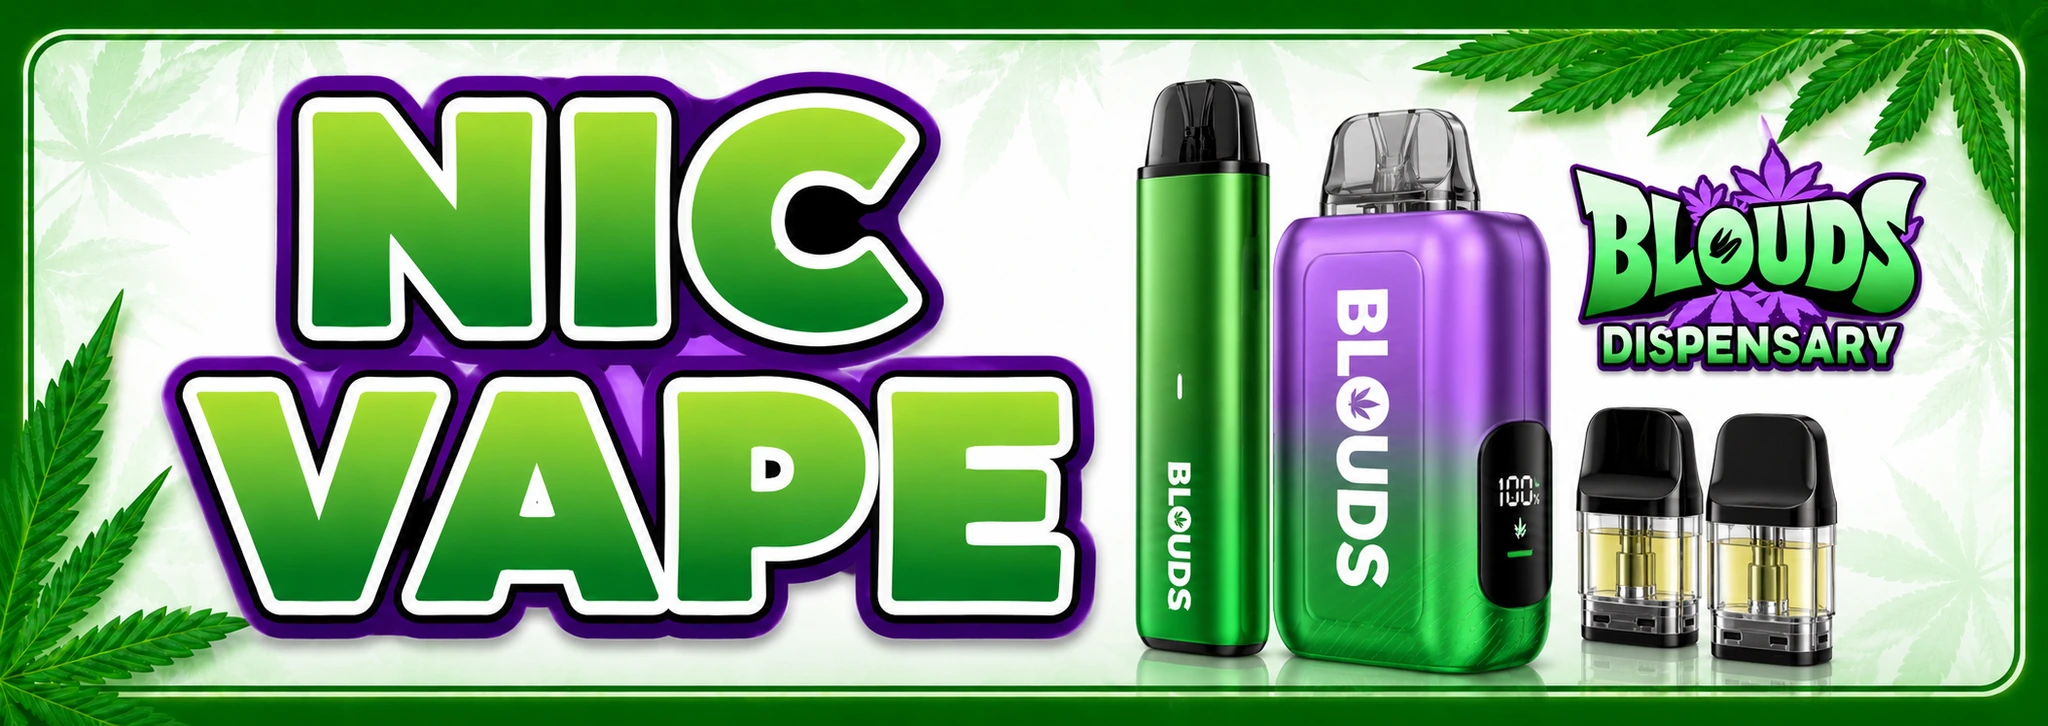
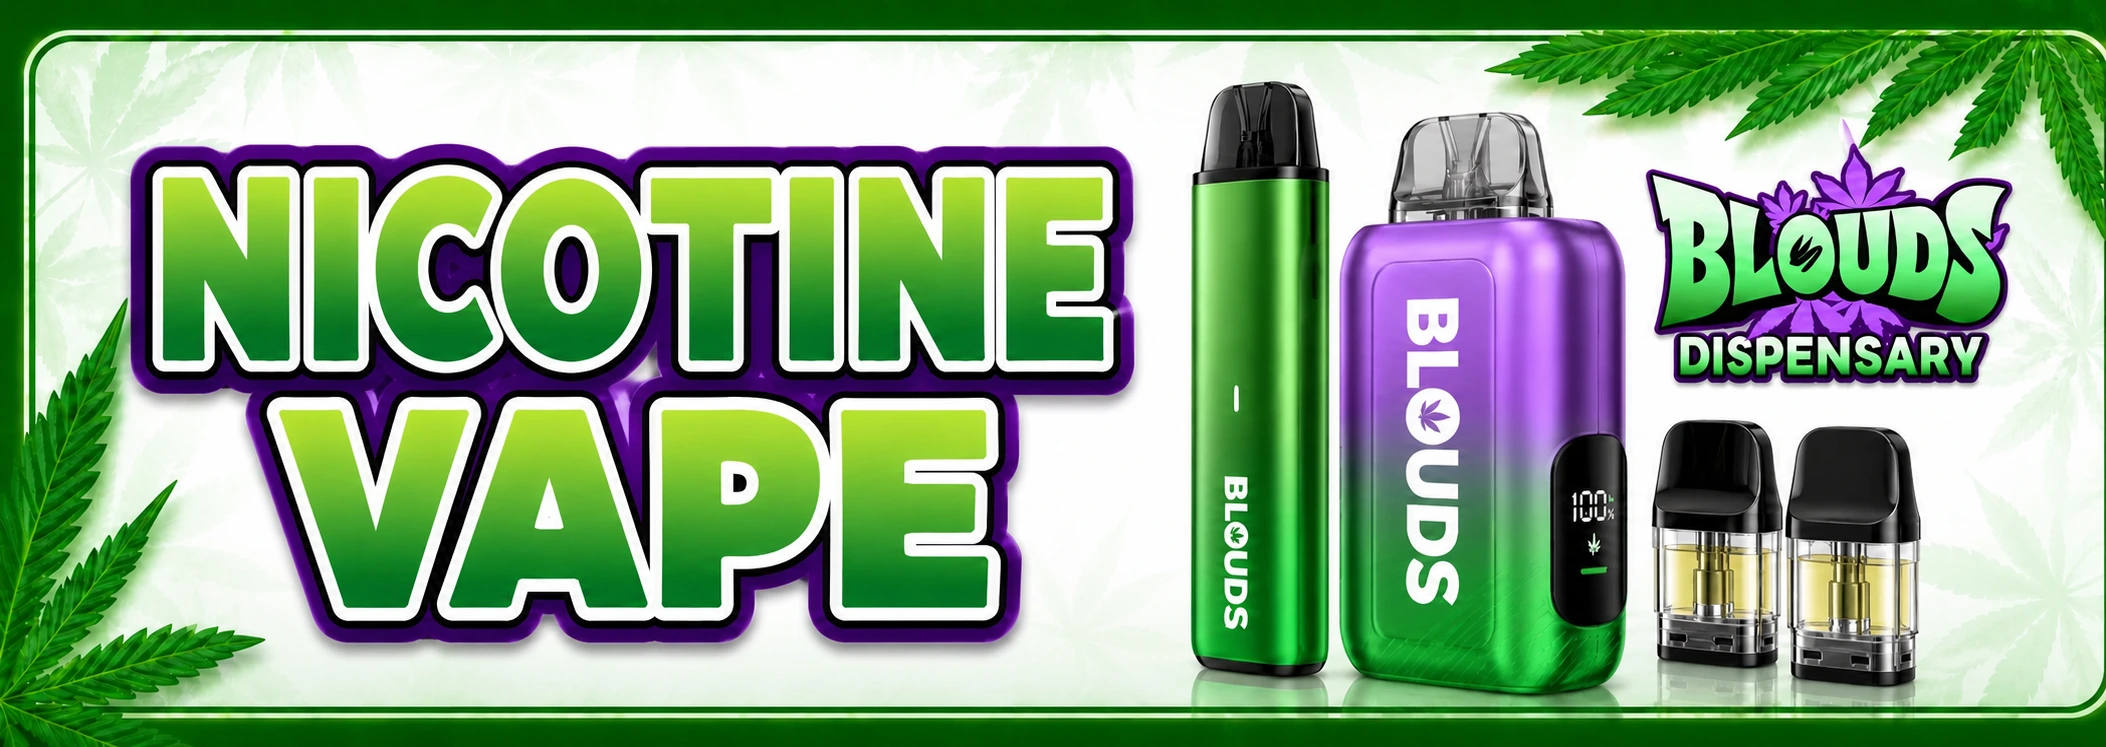
BLS01: expand tier Weed and Nicotine Vape SEO (#30)
Verified POD2 BLS01 campaign. Weed Delivery remains held; protected sensitive behavior preserved.

diff --git a/app/[tier]/page.tsx b/app/[tier]/page.tsx
@@ -1,5 +1,6 @@
 import { notFound } from "next/navigation";
 import type { Metadata } from "next";
+import Link from "next/link";
 import Navbar from "../components/Navbar";
 import Footer from "../components/Footer";
 import FlowerCard from "../components/FlowerCard";
@@ -29,15 +30,20 @@ export async function generateMetadata({
   const seo = TIER_SEO[tierInfo.key];
 
   return {
-    title: seo?.seoTitle || `${tierInfo.config.name} Cannabis Flower - ${flowers.length} Strains`,
+    title: seo ? { absolute: seo.seoTitle } : `${tierInfo.config.name} Cannabis Flower - ${flowers.length} Strains`,
     description: seo?.seoIntro || `Shop ${flowers.length} ${tierInfo.config.name.toLowerCase()} cannabis strains at Blouds Dispensary.`,
     alternates: {
       canonical: `https://www.bloudsdispensary.ca/${tierSlug}`,
     },
     openGraph: {
-      title: `${tierInfo.config.name} Flower | Blouds Dispensary`,
-      description: `Browse listed ${tierInfo.config.name.toLowerCase()} flower names, weights, and prices. Menu pricing starts from $${tierInfo.config.unitPrice}/g.`,
+      title: seo?.seoTitle || `${tierInfo.config.name} Flower | Blouds Dispensary`,
+      description: seo?.seoIntro || `Browse the ${tierInfo.config.name.toLowerCase()} flower section at Blouds Dispensary.`,
       url: `https://www.bloudsdispensary.ca/${tierSlug}`,
+    },
+    twitter: {
+      card: "summary_large_image",
+      title: seo?.seoTitle || `${tierInfo.config.name} Flower | Blouds Dispensary`,
+      description: seo?.seoIntro || `Browse the ${tierInfo.config.name.toLowerCase()} flower section at Blouds Dispensary.`,
     },
   };
 }
@@ -68,7 +74,7 @@ export default async function TierPage({
       <section className={styles.bannerSection}>
         <img
           src={config.banner}
-          alt={`${config.name} Cannabis Flower - ${config.tagline}`}
+          alt={seo?.imageAlt || `${config.name} Cannabis Flower - ${config.tagline}`}
           className={styles.bannerImg}
         />
       </section>
@@ -83,7 +89,7 @@ export default async function TierPage({
             <div className={styles.heroTitleRow}>
               <span className={styles.heroIcon}>{config.icon}</span>
               <h1 className={styles.heroTitle}>
-                <span style={{ color: config.color }}>{config.name}</span>
+                <span style={{ color: config.color }}>{seo?.h1 || config.name}</span>
               </h1>
             </div>
             <p className={styles.heroTagline}>{config.tagline}</p>
@@ -154,10 +160,8 @@ export default async function TierPage({
             </>
           )}
 
-          <h2 className={styles.sectionTitle}>
-            All{" "}
-            <span style={{ color: config.color }}>{config.name}</span>{" "}
-            Strains
+          <h2 className={styles.sectionTitle} style={{ color: config.color }}>
+            {seo?.catalogHeading || `All ${config.name} Strains`}
           </h2>
           <div className={styles.grid}>
             {regularFlowers.map((f) => (
@@ -175,15 +179,24 @@ export default async function TierPage({
       {seo && (
         <section className={styles.seoSection}>
           <div className={styles.container}>
-            <h2 className={styles.seoMainTitle}>{seo.seoTitle}</h2>
+            <h2 className={styles.seoMainTitle}>About the {config.name} Flower Tier</h2>
             <p className={styles.seoIntro}>{seo.seoIntro}</p>
 
-            {seo.sections.map((s, i) => (
-              <div key={i} className={styles.seoBlock}>
-                <h3 className={styles.seoHeading}>{s.heading}</h3>
-                <p className={styles.seoBody}>{s.body}</p>
-              </div>
-            ))}
+            <div className={styles.compareBlock}>
+              <h3 className={styles.seoHeading}>Compare Blouds Weed &amp; Flower Tiers</h3>
+              <nav className={styles.tierLinks} aria-label="Compare Blouds flower tiers">
+                <Link href="/exotic">Exotic Weed</Link>
+                <Link href="/premium">Premium Weed</Link>
+                <Link href="/aaa">AAA+ Weed</Link>
+                <Link href="/aa">AA Weed</Link>
+                <Link href="/budget">Budget Weed</Link>
+              </nav>
+              <p className={styles.seoBody}>
+                Looking for the broader store overview instead of one flower tier? Explore Blouds Dispensary —{" "}
+                <Link href="/weed-dispensary-brampton/">Weed Dispensary in Brampton</Link>{" "}
+                for store information and additional cannabis categories.
+              </p>
+            </div>
 
             {/* FAQ Accordion */}
             {seo.faqs.length > 0 && (

diff --git a/app/lib/tierSeoContent.ts b/app/lib/tierSeoContent.ts
@@ -1,31 +1,66 @@
 export interface TierSeoData {
   seoTitle: string;
+  h1: string;
+  catalogHeading: string;
+  imageAlt: string;
   seoIntro: string;
-  sections: { heading: string; body: string }[];
   faqs: { q: string; a: string }[];
 }
 
-function tierData(name: string, slug: string): TierSeoData {
+function tierData(
+  name: string,
+  seoIntro: string,
+  faq: { q: string; a: string },
+): TierSeoData {
   return {
-    seoTitle: `${name} Cannabis Flower Brampton | Blouds Dispensary`,
-    seoIntro: `Browse the ${name} flower section at Blouds Dispensary in Brampton. Compare current listings, posted weights, prices, and package details.`,
-    sections: [
-      { heading: `${name} Flower Menu`, body: `The ${name} section gives shoppers a focused place to compare the flower names, types, listed weights, and posted prices currently shown online.` },
-      { heading: "Check Current Item Details", body: "Open an item page to review its listed menu details before visiting. A tier label helps organize the menu and is not a product guarantee." },
-      { heading: "Visit Blouds Dispensary", body: "Blouds Dispensary is open 24 hours at 117 Queen St W in Brampton. Use the store page for current visit information." },
-    ],
-    faqs: [
-      { q: `Where can I browse ${name} flower?`, a: `Use the /${slug} menu section to compare the ${name} flower listings currently shown online.` },
-      { q: "What details are shown?", a: "Menu pages show listed names, types, weights, prices, and package details." },
-      { q: "Where is Blouds Dispensary?", a: "Blouds Dispensary is at 117 Queen St W in Brampton and is open 24 hours." },
-    ],
+    seoTitle: `${name} Weed & Cannabis Flower in Brampton | Blouds Dispensary`,
+    h1: `${name} Weed & Cannabis Flower in Brampton`,
+    catalogHeading: `Explore ${name} Weed & Flower`,
+    imageAlt: `${name} Weed and Cannabis Flower at Blouds Dispensary`,
+    seoIntro,
+    faqs: [faq],
   };
 }
 
 export const TIER_SEO: Record<string, TierSeoData> = {
-  EXOTIC: tierData("Exotic", "exotic"),
-  PREMIUM: tierData("Premium", "premium"),
-  "AAA+": tierData("AAA+", "aaa"),
-  AA: tierData("AA", "aa"),
-  BUDGET: tierData("Budget", "budget"),
+  EXOTIC: tierData(
+    "Exotic",
+    "Blouds Dispensary organizes Exotic as its own cannabis flower tier for adults 19+ who want to focus their browsing on that section. Explore Exotic weed and flower without mixing it into the other Blouds flower tiers.",
+    {
+      q: "What does Exotic weed mean at Blouds Dispensary?",
+      a: "Exotic is the name of one of Blouds Dispensary’s cannabis flower tiers. The Exotic section keeps that tier separate from Premium, AAA+, AA and Budget.",
+    },
+  ),
+  PREMIUM: tierData(
+    "Premium",
+    "The Premium section gives Blouds shoppers a dedicated place to browse Premium weed and cannabis flower. Use the tier on its own when Premium is the flower category you want to explore.",
+    {
+      q: "What is Premium weed at Blouds Dispensary?",
+      a: "Premium is one of Blouds Dispensary’s dedicated cannabis flower tiers. The Premium section is the focused place for shoppers interested in that tier.",
+    },
+  ),
+  "AAA+": tierData(
+    "AAA+",
+    "AAA+ has its own flower section at Blouds Dispensary, making it easier to focus on AAA+ weed and cannabis flower without moving through every tier at once.",
+    {
+      q: "What is the AAA+ weed section?",
+      a: "AAA+ is a separate Blouds Dispensary flower tier with its own browsing section alongside Exotic, Premium, AA and Budget.",
+    },
+  ),
+  AA: tierData(
+    "AA",
+    "The AA section keeps AA weed and cannabis flower together as a distinct Blouds flower tier. It provides adults 19+ with a focused starting point when AA is the category they want to browse.",
+    {
+      q: "What does AA weed mean on the Blouds menu?",
+      a: "AA is the label for one of Blouds Dispensary’s cannabis flower tiers. The AA section keeps that category distinct from the other flower tiers.",
+    },
+  ),
+  BUDGET: tierData(
+    "Budget",
+    "Budget is Blouds Dispensary’s dedicated value-oriented flower tier. Adults 19+ looking specifically for Budget weed or cannabis flower can begin with this section without implying any current deal, price or promotion.",
+    {
+      q: "What is Budget weed at Blouds Dispensary?",
+      a: "Budget is Blouds Dispensary’s value-oriented cannabis flower tier. The label describes the tier and does not by itself establish a current sale, promotion or specific price.",
+    },
+  ),
 };

diff --git a/tests/pod2-campaign.test.ts b/tests/pod2-campaign.test.ts
@@ -1,0 +1,62 @@
+import assert from "node:assert/strict";
+import { readFileSync } from "node:fs";
+import test from "node:test";
+import { TIER_SEO } from "../app/lib/tierSeoContent.ts";
+
+const read = (path: string) => readFileSync(new URL(path, import.meta.url), "utf8");
+
+test("five Blouds tier routes carry distinct Weed and Flower signals", () => {
+  const expected = ["Exotic", "Premium", "AAA+", "AA", "Budget"];
+  assert.deepEqual(Object.values(TIER_SEO).map((tier) => tier.h1.split(" Weed")[0]), expected);
+
+  for (const tier of Object.values(TIER_SEO)) {
+    assert.match(tier.seoTitle, / Weed & Cannabis Flower in Brampton \| Blouds Dispensary$/);
+    assert.match(tier.h1, / Weed & Cannabis Flower in Brampton$/);
+    assert.match(tier.catalogHeading, /^Explore .* Weed & Flower$/);
+    assert.match(tier.imageAlt, / Weed and Cannabis Flower at Blouds Dispensary$/);
+    assert.equal(tier.faqs.length, 1);
+  }
+});
+
+test("tier template preserves canonical routes and links all tier owners to the broad owner", () => {
+  const source = read("../app/[tier]/page.tsx");
+  assert.match(source, /title: seo \? \{ absolute: seo\.seoTitle \}/);
+  assert.match(source, /canonical: `https:\/\/www\.bloudsdispensary\.ca\/\$\{tierSlug\}`/);
+  for (const route of ["exotic", "premium", "aaa", "aa", "budget"]) {
+    assert.ok(source.includes(`href="/${route}"`));
+  }
+  assert.ok(source.includes('href="/weed-dispensary-brampton/"'));
+  assert.ok(source.includes("Compare Blouds Weed &amp; Flower Tiers"));
+});
+
+test("nicotine category uses full public terminology and stays separate from THC Vape", () => {
+  const products = read("../app/lib/products.ts");
+  assert.match(products, /"VAPE PENS": \{[\s\S]*name: "Nicotine Vape"/);
+  assert.match(products, /seoTitle: "Nicotine Vape in Brampton"/);
+  assert.match(products, /separate from THC Vape/);
+  assert.match(products, /"VAPE DISPOSABLE": \{[\s\S]*name: "THC Vape"/);
+
+  for (const path of [
+    "../app/components/Navbar.tsx",
+    "../app/components/Footer.tsx",
+    "../app/lib/products.ts",
+    "../app/page.tsx",
+    "../app/resources/resourceData.ts",
+  ]) {
+    const source = read(path);
+    assert.doesNotMatch(source, /\bNic Vape\b|\bnic vapes\b/);
+  }
+});
+
+test("delivery behavior and store-truth conflict remain unchanged and held", () => {
+  const delivery = read("../app/delivery/DeliveryContent.tsx");
+  const faq = read("../app/faq/page.tsx");
+  assert.match(delivery, /script\.google\.com/);
+  assert.match(faq, /Delivery is coming soon!/);
+});
+
+test("nicotine banner is a real WebP asset", () => {
+  const banner = readFileSync(new URL("../public/banners/Blouds_Nic_Vape.webp", import.meta.url));
+  assert.equal(banner.subarray(0, 4).toString("ascii"), "RIFF");
+  assert.equal(banner.subarray(8, 12).toString("ascii"), "WEBP");
+});

diff --git a/app/lib/products.ts b/app/lib/products.ts
@@ -171,12 +171,12 @@ export const CATEGORY_CONFIG: Record<string, CategoryInfo> = {
   },
   "VAPE PENS": {
     banner: "/banners/Blouds_Nic_Vape.webp",
-    name: "Nic Vape", slug: "vapes", color: "#8b5cf6", icon: "💨",
-    seoTitle: "Nic Vape Brampton — Disposable Nicotine Vapes",
-    seoIntro: "Browse the current Nic Vape category at Blouds Dispensary in Brampton for listed product names, formats, package details, and prices.",
-    seoDescription: "Use the Nic Vape category to compare the nicotine vape products currently listed before visiting Blouds Dispensary at 117 Queen St W.",
+    name: "Nicotine Vape", slug: "vapes", color: "#8b5cf6", icon: "💨",
+    seoTitle: "Nicotine Vape in Brampton",
+    seoIntro: "Explore the Nicotine Vape category at Blouds Dispensary in Brampton. This category is separate from THC Vape and is intended for adults 19+ reviewing nicotine-vape product information.",
+    seoDescription: "Explore the Nicotine Vape category at Blouds Dispensary in Brampton. Adults 19+ can review nicotine-vape products and category information.",
     faqs: [
-      { q: "What is listed on the Nic Vape page?", a: "Use this page to compare the nicotine vape product names, package details, and prices currently listed." },
+      { q: "What is the Nicotine Vape category at Blouds Dispensary?", a: "The Nicotine Vape category is Blouds Dispensary’s nicotine-vape section and is separate from the THC Vape category. Adults 19+ can review the listed nicotine-vape product information without this page making a current stock or availability claim." },
       { q: "Where should shoppers check device details?", a: "Review each item listing and product package for the current format and device details." },
     ],
   },

diff --git a/app/[tier]/tier.module.css b/app/[tier]/tier.module.css
@@ -227,6 +227,36 @@
   margin: 0;
 }
 
+.compareBlock {
+  margin: 28px 0;
+  padding: 22px;
+  border: 1px solid var(--border-subtle);
+  border-radius: var(--radius-md);
+  background: var(--bg-primary);
+}
+
+.tierLinks {
+  display: flex;
+  flex-wrap: wrap;
+  gap: 10px;
+  margin: 0 0 16px;
+}
+
+.tierLinks a,
+.compareBlock p a {
+  color: var(--green-dark);
+  font-weight: 800;
+  text-decoration: underline;
+  text-underline-offset: 3px;
+}
+
+.tierLinks a {
+  padding: 8px 12px;
+  border: 1px solid var(--border-subtle);
+  border-radius: 999px;
+  text-decoration: none;
+}
+
 /* ── FAQ Accordion ── */
 .faqSection {
   margin-top: 32px;

diff --git a/app/components/Footer.tsx b/app/components/Footer.tsx
@@ -57,7 +57,7 @@ export default function Footer() {
               <Link href="/budget">Budget Flower</Link>
               <Link href="/items/edibles">Edibles</Link>
               <Link href="/items/cigarettes">Cigarettes</Link>
-              <Link href="/items/vapes">Nic Vape</Link>
+              <Link href="/items/vapes">Nicotine Vape</Link>
               <Link href="/resources">Resources</Link>
               <Link href="/resources/local-guides/queen-street-brampton-visit-guide">Queen Street Visit Guide</Link>
               <Link href="/resources/flower-guides">Flower Tier Guide</Link>

diff --git a/app/resources/resourceData.ts b/app/resources/resourceData.ts
@@ -255,7 +255,7 @@ export const RESOURCE_PAGES: ResourcePage[] = [
     sections: [{ heading: "Brand Searches Belong Beside Category Searches", body: ["The shopper might type THC vapes, Gas Gang, or Drizzle. Each should land close to the current vape category."] }],
     commercialLinks: [
       { label: "THC vapes", href: "/items/vape-disposables" },
-      { label: "Nic vapes", href: "/items/vapes" },
+      { label: "Nicotine Vape", href: "/items/vapes" },
     ],
     related: ["/resources/brand-guides/gas-gang-drizzle-vapes", "/resources/menu-guide"],
   },

diff --git a/app/components/Navbar.tsx b/app/components/Navbar.tsx
@@ -14,7 +14,7 @@ const ALL_LINKS = [
   { href: "/budget", label: "Budget" },
   { href: "/items/edibles", label: "Edibles" },
   { href: "/items/prerolls", label: "Pre-Rolls" },
-  { href: "/items/vapes", label: "Nic Vape" },
+  { href: "/items/vapes", label: "Nicotine Vape" },
   { href: "/items/vape-disposables", label: "THC Vape" },
   { href: "/items/concentrates", label: "Concentrates" },
   { href: "/items/magic", label: "Magic Stuff" },

diff --git a/app/page.tsx b/app/page.tsx
@@ -146,7 +146,7 @@ const RESOURCE_LINKS = [
     href: "/resources/edibles-and-vapes-guide",
     tag: "Format guide",
     title: "Edibles and vape paths",
-    body: "Separate THC vapes, nic vapes, edibles, and support gear before you head in.",
+    body: "Separate THC vapes, nicotine vapes, edibles, and support gear before you head in.",
   },
 ];
 
